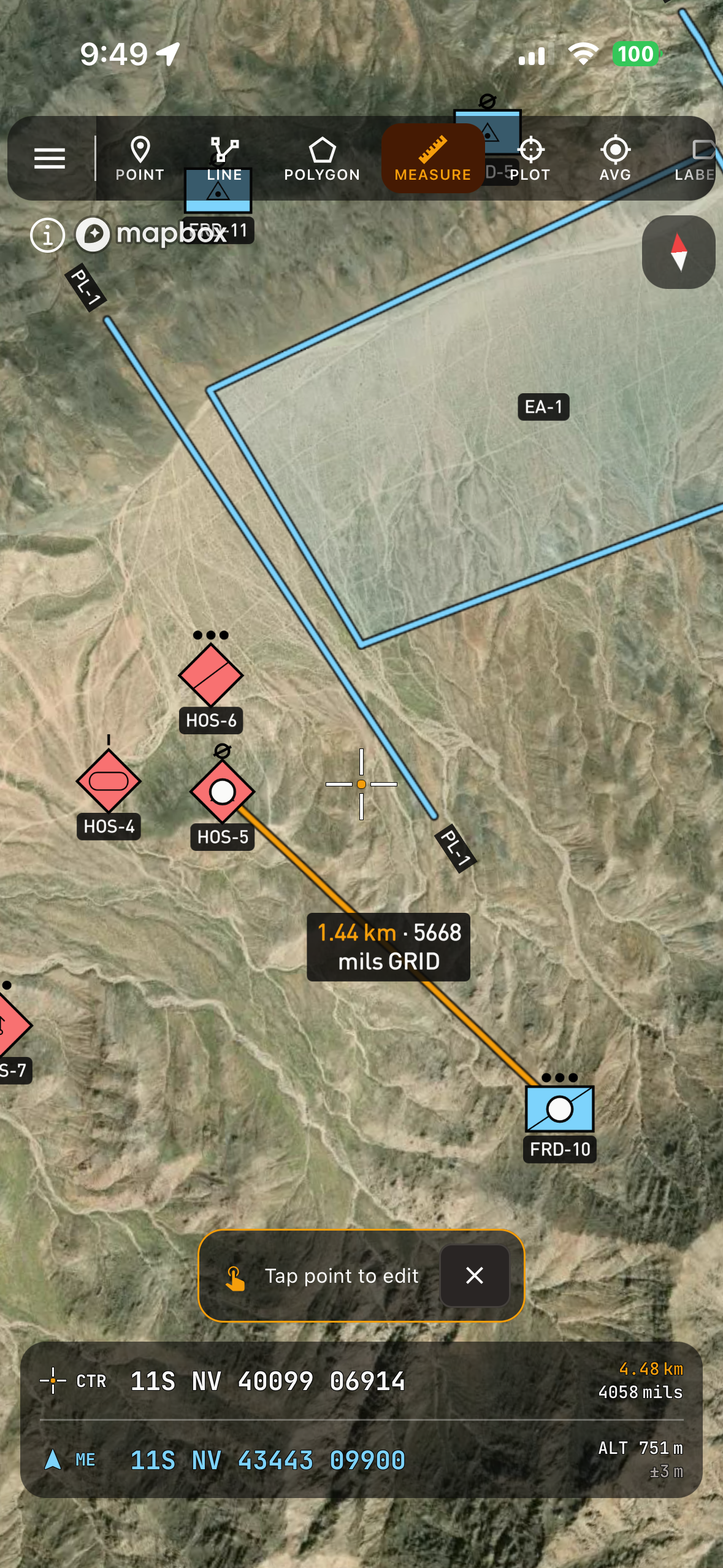
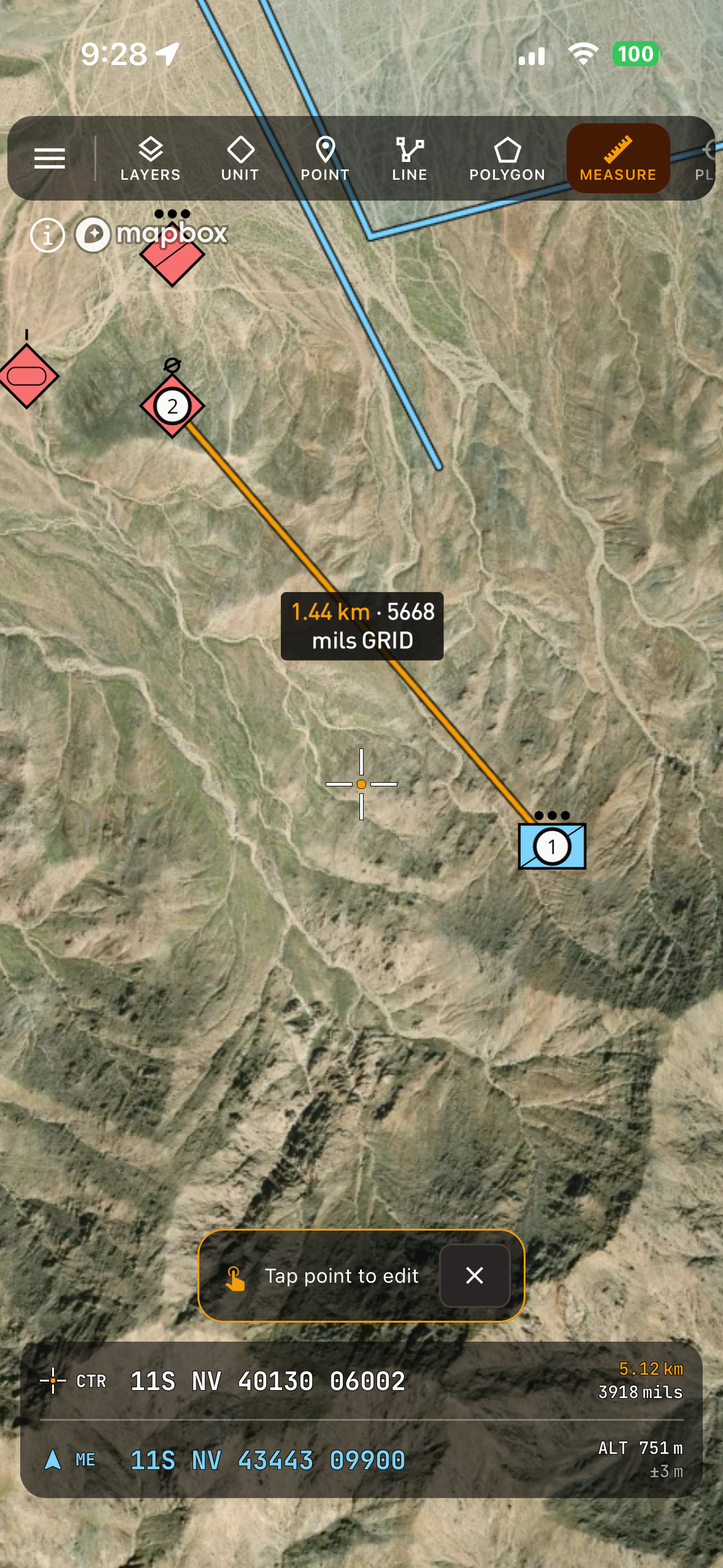
feat: new OP and measure screenshots
The measure shot shows the numbered start and end points, measured from a
friendly unit to a hostile one; its alt text says so.

diff --git a/src/content/screenshots.ts b/src/content/screenshots.ts
@@ -28,7 +28,7 @@ export const screenshots: Record<ScreenshotKey, Screenshot> = {
   op: { src: op, alt: 'RTAP OP mode: the terrain seen from an observation post, with hostile units on the hillside, the crosshair on the ground and the eye height slider' },
   unit: { src: unit, alt: 'RTAP unit card for HOS-6, a hostile reconnaissance platoon, showing its MGRS grid, distance, direction and altitude' },
   quickPlot: { src: quickPlot, alt: 'RTAP quick plot: a typed MGRS grid checked as valid, with its distance and direction from you, ready to plot' },
-  measure: { src: measure, alt: 'RTAP measure tool: a line from a hostile unit to a friendly unit labelled 1.44 km and 5668 mils grid' },
+  measure: { src: measure, alt: 'RTAP measure tool: a line from a friendly unit, point 1, to a hostile unit, point 2, labelled 1.44 km and 5668 mils grid' },
   polygon: { src: polygon, alt: 'RTAP polygon card for engagement area EA-1, with its center grid, distance, perimeter and area' },
   overlays: { src: overlays, alt: 'RTAP layers panel: Base, Enemy, Fires and Friendly overlays switched on over the map' },
   missions: { src: missions, alt: 'RTAP missions list: the last opened mission with its map preview and counts of units, points, lines and polygons' },
